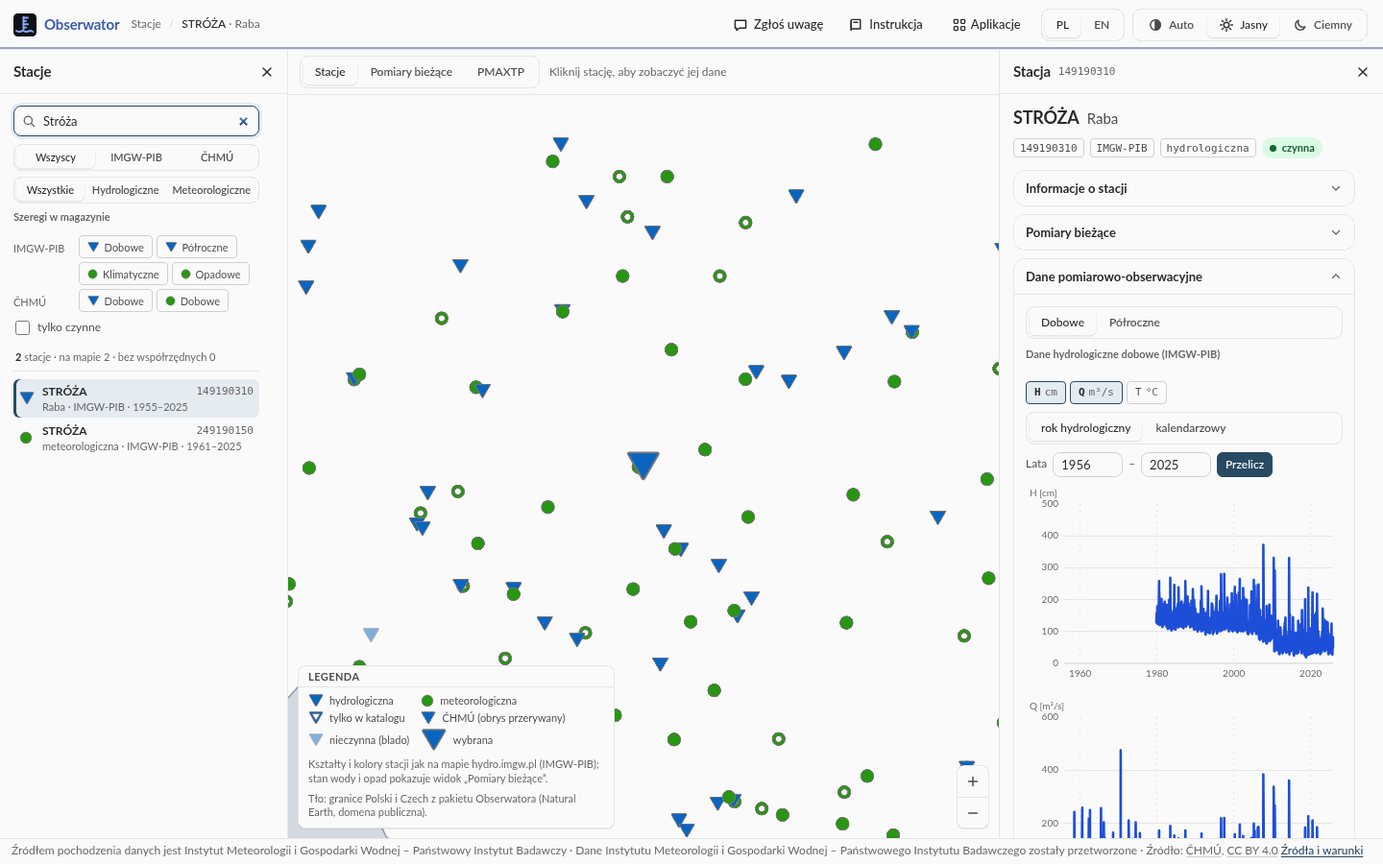
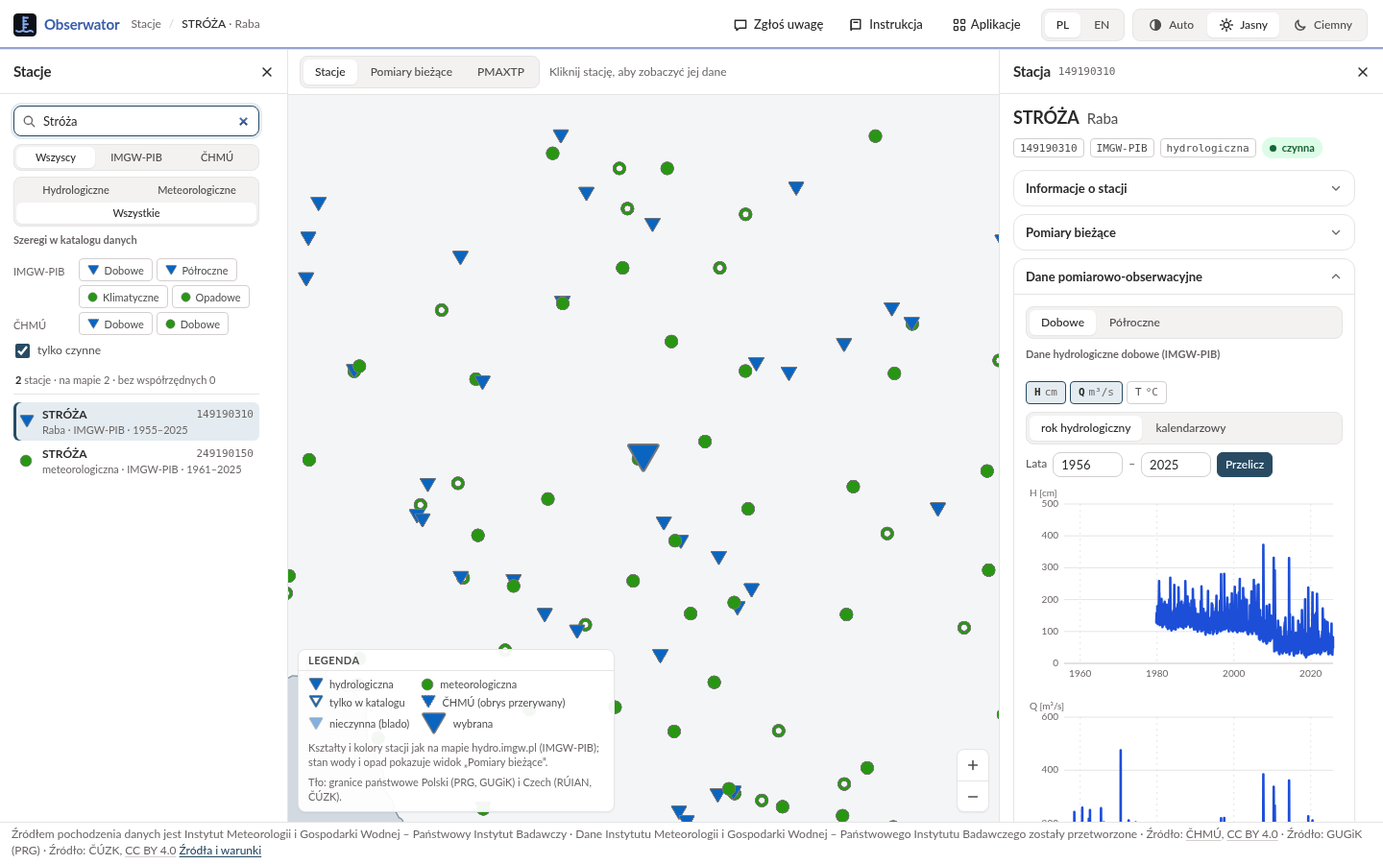
feat(gui): kind filter in two rows, tylko czynne checked on a first visit
The author's request of 2026-11-14 for the left panel of the stations view.

- Rodzaj stacji: Hydrologiczne and Meteorologiczne side by side with a
  full-width Wszystkie under them, at every width; still one radio group
  (arrow keys in the order shown, one tab stop, the same chosen state).
- tylko czynne is checked on a first visit; the person's choice is kept
  in localStorage (obserwator-active-only) and wins on later visits.
  Wyczyść filtry still returns to every station.
- The guide's text and its screenshots ekran.png and pomiary-biezace.png
  retaken; USAGE, CHANGELOG, PROGRESS and TESTING counts.
- e2e: the default and a remembered choice, the kind filter's layout,
  keyboard and aria at 1440 and 390 px; the map tests start from the
  active stations.

diff --git a/src/obserwator/gui/web/src/list.js b/src/obserwator/gui/web/src/list.js
@@ -1,7 +1,8 @@
 // The left panel „Stacje” (plan D10): search by name, river or code ignoring case and
 // diacritics (as `obserwator stations find` does: a fragment of the name or the river, a
 // prefix of the code), filters by provider, kind, the datasets holding the station (chips,
-// any of those chosen) and „tylko czynne”, the counts „na mapie N · bez współrzędnych M”
+// any of those chosen) and „tylko czynne” (checked on a first visit, the person's choice
+// remembered), the counts „na mapie N · bez współrzędnych M”
 // and the list, which keeps the stations without coordinates, marked; a click selects the
 // station and the map flies to it when it has a location. The filters choose the map's
 // stations too (`onMap`); the search is the list's.
@@ -11,8 +12,33 @@ import { StationSymbol } from "./symbols.js";
 import { Seg } from "./ui/seg.js";
 import { DATASET_STEPS, datasetShort, datasetTitle, kindName, providerName } from "./words.js";
 
-/** The filters of a first visit: every station of the catalogs. */
-export const DEFAULT_FILTERS = Object.freeze({ query: "", provider: "all", kind: "all", datasets: Object.freeze([]), active: false });
+/** The filters of „Wyczyść filtry”: every station of the catalogs. */
+export const NO_FILTERS = Object.freeze({ query: "", provider: "all", kind: "all", datasets: Object.freeze([]), active: false });
+
+/** localStorage key of the person's „tylko czynne” choice: "1" checked, "0" not. */
+export const ACTIVE_KEY = "obserwator-active-only";
+
+/**
+ * The filters a visit starts with: every station but „tylko czynne” as the person last
+ * left it, checked on a first visit.
+ *
+ * @returns {object} the filters (NO_FILTERS' fields)
+ */
+export function startFilters() {
+  try {
+    return { ...NO_FILTERS, active: window.localStorage.getItem(ACTIVE_KEY) !== "0" };
+  } catch {
+    return { ...NO_FILTERS, active: true };
+  }
+}
+
+function rememberActive(active) {
+  try {
+    window.localStorage.setItem(ACTIVE_KEY, active ? "1" : "0");
+  } catch {
+    // Storage blocked: the choice lasts until the page closes.
+  }
+}
 
 const PAGE = 150;
 /** The providers in the order of the registry. */
@@ -167,7 +193,7 @@ function StationSub({ station }) {
  *
  * @param {{stations: object[], filters: object, onFilters: (next: object) => void,
  *   selected: string|null, onSelect: (code: string, options: {fly: boolean}) => void}} props
- *   the stations of prepareStations, the filters (DEFAULT_FILTERS' fields), their handler,
+ *   the stations of prepareStations, the filters (NO_FILTERS' fields), their handler,
  *   the selected station and the selection's handler
  * @returns {object}
  */
@@ -180,6 +206,7 @@ export function StationList({ stations, filters, onFilters, selected, onSelect }
   const located = found.filter((station) => station.lon !== null).length;
   const change = (next) => {
     setShown(PAGE);
+    if (next.active !== filters.active) rememberActive(next.active);
     // A dataset chosen under another provider or kind is dropped with its chip
     const chosen = (next.datasets || []).filter((key) => {
       const entry = datasets.find((item) => item.key === key);
@@ -227,13 +254,14 @@ export function StationList({ stations, filters, onFilters, selected, onSelect }
       <${Seg}
         full
         tiny
+        className="kinds"
         label=${t("stations.list.kind")}
         value=${filters.kind}
         onChange=${set("kind")}
         items=${[
-          { value: "all", label: t("stations.list.kind_all") },
           { value: "hydro", label: t("stations.list.kind_hydro") },
           { value: "meteo", label: t("stations.list.kind_meteo") },
+          { value: "all", label: t("stations.list.kind_all") },
         ]}
       />
       <${DatasetChips} entries=${datasets} filters=${filters} onToggle=${toggle} />
@@ -263,7 +291,7 @@ export function StationList({ stations, filters, onFilters, selected, onSelect }
         </ul>`
       : html`<div class="empty-note">
           <p>${t("stations.list.none")}</p>
-          ${filtered ? html`<button type="button" class="btn sm" onClick=${() => change(DEFAULT_FILTERS)}>${t("stations.list.clear")}</button>` : null}
+          ${filtered ? html`<button type="button" class="btn sm" onClick=${() => change(NO_FILTERS)}>${t("stations.list.clear")}</button>` : null}
         </div>`}
     ${found.length > shown
       ? html`<button type="button" class="btn sm more" onClick=${() => setShown(shown + PAGE)}>

diff --git a/src/obserwator/gui/web/instrukcja/index.html b/src/obserwator/gui/web/instrukcja/index.html
@@ -172,7 +172,7 @@
 <section class="part" id="mapa" aria-labelledby="mapa-title">
   <p class="kicker">02 · Widoki „Stacje” i „Pomiary bieżące”</p>
   <h2 id="mapa-title">Mapa i lista stacji</h2>
-  <p>Widok „Stacje” pokazuje wszystkie stacje bieżących katalogów IMGW-PIB i ČHMÚ: hydrologiczne (wodowskazowe) i meteorologiczne. Mapa i lista pokazują te same stacje, wybrane tymi samymi filtrami.</p>
+  <p>Widok „Stacje” pokazuje stacje bieżących katalogów IMGW-PIB i ČHMÚ: hydrologiczne (wodowskazowe) i meteorologiczne, przy pierwszej wizycie tylko czynne. Mapa i lista pokazują te same stacje, wybrane tymi samymi filtrami.</p>
 
   <h3 id="znaki">Znaki stacji</h3>
   <p>Stacje wyglądają jak na mapie hydro.imgw.pl, serwisu hydrologicznego IMGW-PIB, więc kto zna tamtą mapę, odczyta tę od razu:</p>
@@ -189,8 +189,9 @@
   <h3 id="lista">Lista, wyszukiwarka i filtry</h3>
   <ul>
     <li><strong>Wyszukiwarka</strong> („Nazwa, rzeka albo kod”) szuka fragmentu nazwy albo rzeki i początku kodu, bez względu na wielkość liter i znaki diakrytyczne: „lodz” znajdzie Łódź, a „spindleruv” Špindlerův Mlýn. Zawęża tylko listę, nie mapę.</li>
-    <li><strong>Filtry</strong>: „Dostawca” (Wszyscy, IMGW-PIB, ČHMÚ), „Rodzaj stacji” (Wszystkie, Hydrologiczne, Meteorologiczne), „Szeregi w katalogu danych” i „tylko czynne”. Chipy „Szeregi w katalogu danych” to zbiory danych każdego dostawcy, np. „Dobowe” czy „Opadowe”; pełną nazwę zbioru pokazuje podpowiedź. Wybrany chip zostawia stacje, które mają szereg tego zbioru; kilka chipów zostawia stacje z którymkolwiek z nich. Filtry zawężają i listę, i mapę.</li>
-    <li><strong>Liczby nad listą</strong> mówią, ile stacji pasuje, ile z nich jest na mapie, a ile nie ma współrzędnych, np. „6297 stacji · na mapie 4174 · bez współrzędnych 2123”. Gdy nic nie pasuje, „Wyczyść filtry” wraca do wszystkich stacji.</li>
+    <li><strong>Filtry</strong>: „Dostawca” (Wszyscy, IMGW-PIB, ČHMÚ), „Rodzaj stacji” (obok siebie Hydrologiczne i Meteorologiczne, pod nimi Wszystkie), „Szeregi w katalogu danych” i „tylko czynne”. Chipy „Szeregi w katalogu danych” to zbiory danych każdego dostawcy, np. „Dobowe” czy „Opadowe”; pełną nazwę zbioru pokazuje podpowiedź. Wybrany chip zostawia stacje, które mają szereg tego zbioru; kilka chipów zostawia stacje z którymkolwiek z nich. Filtry zawężają i listę, i mapę.</li>
+    <li><strong>„tylko czynne”</strong> jest zaznaczone przy pierwszej wizycie, więc lista i mapa zaczynają od stacji czynnych; odznacz je, aby zobaczyć też nieczynne. Przeglądarka zapamiętuje ten wybór na kolejne wizyty.</li>
+    <li><strong>Liczby nad listą</strong> mówią, ile stacji pasuje, ile z nich jest na mapie, a ile nie ma współrzędnych, np. „6297 stacji · na mapie 4174 · bez współrzędnych 2123”. Gdy nic nie pasuje, „Wyczyść filtry” wraca do wszystkich stacji, także nieczynnych.</li>
     <li><strong>Stacje bez współrzędnych</strong> są tylko na liście, z dopiskiem „bez współrzędnych”. Ich dane i analizy otwierają się tak samo, tylko mapa nie ma ich gdzie pokazać; przyczynę braku położenia podaje karta „Informacje o stacji”.</li>
     <li><strong>Kolejność</strong>: najpierw stacje z szeregami, potem pozostałe. Lista pokazuje po 150 stacji, a „Pokaż kolejne” dokłada następne. Kliknięcie stacji wybiera ją, a mapa przesuwa się do niej, jeśli stacja ma współrzędne.</li>
   </ul>

diff --git a/src/obserwator/gui/web/src/main.js b/src/obserwator/gui/web/src/main.js
@@ -23,7 +23,7 @@ import { BORDER_SOURCES, Sources, TermsLink, catalogSources, compose, merge, set
 import { clock, useCurrent } from "./current.js";
 import { lang, loadTexts, onLangChange, storedLang } from "./i18n.js";
 import { html, render, t, useEffect, useMemo, useState } from "./lib.js";
-import { DEFAULT_FILTERS, StationList, onMap, prepareStations } from "./list.js";
+import { StationList, onMap, prepareStations, startFilters } from "./list.js";
 import { StationMap } from "./map.js";
 import { NoStation, StationPanel, sectionTitle } from "./panel.js";
 import { PmaxtpForm } from "./pmaxtp/form.js";
@@ -71,7 +71,7 @@ function App({ lang: language }) {
   const [selected, setSelected] = useState(start.station);
   const [open, setOpen] = useState(start.section ? [start.section] : FIRST_OPEN);
   const [section, setSection] = useState(start.section);
-  const [filters, setFilters] = useState(DEFAULT_FILTERS);
+  const [filters, setFilters] = useState(startFilters);
   const [view, setView] = useState(start.view);
   const [fly, setFly] = useState(start.station ? { code: start.station, n: 0 } : null);
   const [pick, setPick] = useState(start.point ? { lat: round4(start.point.lat), lon: round4(start.point.lon) } : null);

diff --git a/src/obserwator/gui/web/css/app.css b/src/obserwator/gui/web/css/app.css
@@ -267,6 +267,9 @@ body.resizing .view-center, body.resizing .view-panel { pointer-events: none; }
 .search svg { position: absolute; left: 9px; top: 50%; width: 15px; height: 15px; margin-top: -7.5px; fill: none; stroke: var(--text-3); stroke-width: 1.8; stroke-linecap: round; pointer-events: none; }
 .search input { width: 100%; padding-left: 30px; }
 .filters { display: grid; gap: 6px; flex: none; }
+/* „Rodzaj stacji”: Hydrologiczne and Meteorologiczne side by side, Wszystkie under them */
+.seg.kinds { display: grid; grid-template-columns: 1fr 1fr; }
+.seg.kinds button:last-child { grid-column: 1 / -1; }
 .check-row { display: flex; flex-wrap: wrap; gap: var(--space-1) var(--space-4); padding: 2px 2px 0; }
 .counts { margin: 0; padding: 6px 2px; border-bottom: 1px solid var(--line); font-size: var(--text-xs); color: var(--text-3); font-variant-numeric: tabular-nums; flex: none; }
 .counts strong { color: var(--text); }

diff --git a/tests/e2e/test_map.py b/tests/e2e/test_map.py
@@ -100,6 +100,15 @@ def codes(stations: list[dict[str, Any]], *, located: bool | None = None) -> set
     }
 
 
+def active(stations: list[dict[str, Any]]) -> list[dict[str, Any]]:
+    """The stations of a first visit: „tylko czynne” starts checked."""
+    return [station for station in stations if station["active"]]
+
+
+def show_inactive(page: Any) -> None:
+    page.get_by_role("checkbox", name="tylko czynne").uncheck()
+
+
 def test_the_map_draws_the_located_stations_of_both_providers_and_the_list_all(
     open_page, catalog
 ):
@@ -109,6 +118,7 @@ def test_the_map_draws_the_located_stations_of_both_providers_and_the_list_all(
     assert {by_code[code]["provider"] for code in located} == {"IMGW-PIB", "CHMI"}
     assert unlocated
     page = open_page()
+    show_inactive(page)
     wait_drawn(page, ["stations"], located)
     wait_listed(page, located | unlocated)
     for code in unlocated:
@@ -139,22 +149,99 @@ def test_the_map_draws_the_located_stations_of_both_providers_and_the_list_all(
         ("90001", set()),
     ],
 )
-def test_the_search_ignores_case_and_diacritics(open_page, query, found):
+def test_the_search_ignores_case_and_diacritics(open_page, catalog, query, found):
     page = open_page()
     expect(page.locator(".stations .st-item").first).to_be_visible()
+    only = page.get_by_role("checkbox", name="tylko czynne")
+    only.uncheck()
     page.get_by_role(
         "searchbox", name="Szukaj stacji po nazwie, rzece albo kodzie"
     ).fill(query)
     wait_listed(page, found)
     if not found:
         expect(page.get_by_text("Żadna stacja nie pasuje.")).to_be_visible()
+        only.check()
         page.get_by_role("button", name="Wyczyść filtry").click()
         expect(page.get_by_role("searchbox")).to_have_value("")
-        assert len(listed(page)) > 0
+        # every station again, the inactive ones too
+        expect(only).not_to_be_checked()
+        wait_listed(page, codes(catalog))
+
+
+def test_tylko_czynne_starts_checked_and_a_remembered_choice_wins(open_page, catalog):
+    first = active(catalog)
+    assert codes(first) != codes(catalog)
+    page = open_page()
+    only = page.get_by_role("checkbox", name="tylko czynne")
+    expect(only).to_be_checked()
+    wait_listed(page, codes(first))
+    wait_drawn(page, ["stations"], codes(first, located=True))
+    only.uncheck()
+    wait_listed(page, codes(catalog))
+    # the next visit keeps the person's choice
+    page.reload()
+    expect(only).not_to_be_checked()
+    wait_listed(page, codes(catalog))
+    wait_drawn(page, ["stations"], codes(catalog, located=True))
+    only.check()
+    page.reload()
+    expect(only).to_be_checked()
+    wait_listed(page, codes(first))
+
+
+@pytest.mark.parametrize("width", WIDTHS)
+def test_the_kind_filter_has_two_kinds_side_by_side_and_all_under_them(
+    open_page, catalog, width
+):
+    page = open_page(width=width, height=844)
+    if width < 860:
+        page.locator(".map-bar .panel-toggle.left").click()
+    group = page.get_by_role("radiogroup", name="Rodzaj stacji")
+    radios = group.get_by_role("radio")
+    expect(radios).to_have_text(["Hydrologiczne", "Meteorologiczne", "Wszystkie"])
+    # measured in one frame: on a phone the sheet may still be sliding up
+    hydro, meteo, every = radios.evaluate_all(
+        "(items) => items.map((item) => { const box = item.getBoundingClientRect();"
+        " return { x: box.x, y: box.y, width: box.width, height: box.height }; })"
+    )
+    # one row of two equal halves, then „Wszystkie” across both
+    assert abs(hydro["y"] - meteo["y"]) < 1
+    assert abs(hydro["width"] - meteo["width"]) < 1
+    assert hydro["x"] + hydro["width"] <= meteo["x"]
+    assert every["y"] >= hydro["y"] + hydro["height"]
+    assert abs(every["x"] - hydro["x"]) < 1
+    assert abs(every["x"] + every["width"] - meteo["x"] - meteo["width"]) < 1
+    # no label is cut
+    assert radios.evaluate_all(
+        "(items) => items.every((item) => item.scrollWidth <= item.clientWidth)"
+    )
+    # one radio group: „Wszystkie” chosen and the one tab stop; the arrows go round in
+    # the order shown and choose
+    expect(radios.nth(2)).to_have_attribute("aria-checked", "true")
+    assert radios.evaluate_all("(items) => items.map((item) => item.tabIndex)") == [
+        -1,
+        -1,
+        0,
+    ]
+    radios.nth(2).focus()
+    page.keyboard.press("ArrowRight")
+    expect(radios.nth(0)).to_be_focused()
+    expect(radios.nth(0)).to_have_attribute("aria-checked", "true")
+    wait_listed(page, codes([s for s in active(catalog) if s["kind"] == "hydro"]))
+    page.keyboard.press("ArrowRight")
+    expect(radios.nth(1)).to_have_attribute("aria-checked", "true")
+    wait_listed(page, codes([s for s in active(catalog) if s["kind"] == "meteo"]))
+    page.keyboard.press("ArrowRight")
+    expect(radios.nth(2)).to_be_focused()
+    expect(radios.nth(2)).to_have_attribute("aria-checked", "true")
+    wait_listed(page, codes(active(catalog)))
+    # nothing of the panel sticks out sideways
+    assert page.evaluate("() => document.documentElement.scrollWidth") <= width
 
 
 def test_the_filters_choose_the_stations_of_the_list_and_of_the_map(open_page, catalog):
     page = open_page()
+    show_inactive(page)
     located = codes(catalog, located=True)
     wait_drawn(page, ["stations"], located)
 
@@ -196,7 +283,7 @@ def test_current_measurements_replace_the_station_layer_and_stations_bring_it_ba
     open_page, catalog, gui_url
 ):
     page = open_page()
-    located = codes(catalog, located=True)
+    located = codes(active(catalog), located=True)
     wait_drawn(page, ["stations"], located)
     current = api(gui_url, "api/current")
     (west, south), (east, north) = page.evaluate(
@@ -229,7 +316,7 @@ def test_current_measurements_replace_the_station_layer_and_stations_bring_it_ba
 
 def test_a_point_names_its_station_and_a_click_selects_it(open_page, catalog):
     page = open_page()
-    wait_drawn(page, ["stations"], codes(catalog, located=True))
+    wait_drawn(page, ["stations"], codes(active(catalog), located=True))
     # Warszawa: in the middle of the map, clear of the legend (bottom left)
     station = next(s for s in catalog if s["code"] == FIXTURE_STATIONS["meteo"])
     x, y = page.evaluate(_PIXEL, [station["lon"], station["lat"]])
@@ -298,7 +385,7 @@ def test_without_a_basemap_the_packaged_borders_are_the_background(open_page):
 
 def test_the_pmaxtp_view_draws_only_the_point_picked(open_page, catalog):
     page = open_page()
-    wait_drawn(page, ["stations"], codes(catalog, located=True))
+    wait_drawn(page, ["stations"], codes(active(catalog), located=True))
     page.get_by_role("radio", name="PMAXTP").click()
     # at once, on the place of a station drawn a moment ago: Warszawa
     warszawa = next(s for s in catalog if s["code"] == FIXTURE_STATIONS["meteo"])
@@ -334,7 +421,7 @@ def test_both_views_draw_in_each_theme_language_and_width(
     open_page, catalog, theme, width, lang
 ):
     page = open_page(theme=theme, width=width, lang=lang)
-    wait_drawn(page, ["stations"], codes(catalog, located=True))
+    wait_drawn(page, ["stations"], codes(active(catalog), located=True))
     toggle = page.locator(".legend-toggle")
     # on a phone the legend starts folded and opens on demand
     expect(toggle).to_have_attribute(
@@ -351,6 +438,6 @@ def test_both_views_draw_in_each_theme_language_and_width(
     )
     wait_drawn(page, ["stations"], set())
     page.get_by_role("radio", name=stations).click()
-    wait_drawn(page, ["stations"], codes(catalog, located=True))
+    wait_drawn(page, ["stations"], codes(active(catalog), located=True))
     # nothing of the map sticks out sideways
     assert page.evaluate("() => document.documentElement.scrollWidth") <= width

diff --git a/docs/TESTING.md b/docs/TESTING.md
@@ -71,7 +71,7 @@ The fixtures of `tests/e2e/conftest.py`: `gui_url` (the fixture root of both pro
 |`tests/unit/test_catalog_effects.py`, `test_catalog_i18n.py`, `test_agent_guide.py`, `test_mcp_*.py`|212|Agents: effects = behavior, English texts, guide drift test, MCP tools/calls/stdio/HTTP|
 |`tests/unit/gui/`|295|The GUI's server through Starlette's `TestClient` on the fixture root and its read-only copy: routes, headers, refused methods and parameters, error statuses and cache rules, the app under a prefix, `gui serve` until `SIGTERM` (Ctrl+Break on Windows) and the `nogat.gui` entry point; the rate limit, daily totals, access log (`nogat_logging`, no client addresses, no admin key), „Zgłoś uwagę” and regulamin; the admin panel (`test_admin.py`: the key and its file read on every request, reports, stats, status; ADR-020); IMGW-PIB snapshots and PMAXTP from recorded answers; the climate stripes' colour scale on Hydrolog's annual means (`test_stripes.py`); the analyses that the recorded Hydrolog of `tests/fixtures/hydrolog` stored (listed with the options a person may change, read without running a program, named by the session, shown by `DataRoot` a minute after a build, exported as JSON and CSV) and a person's choices computed by recorded programs (refused options, the memory of results, two computations at a time, timeout and failure, no program found at the start)|
 |`tests/contract/test_gui_web.py`|9|The page's files: the SHA-256 of the copied Nogat files and the vendored libraries, no remote URL, no inline script or style in `index.html`, `admin/index.html` and the guide `instrukcja/index.html`, every text the scripts name a key of the area `gui`, no Polish literal in the scripts, every link of a section's explanation into the guide an id of the guide (Nogat DEV-15.14)|
-|`tests/e2e/` (Playwright, Chromium)|149|The GUI in Chromium on a live server (marker `e2e`): `test_shell.py`, `test_map.py`, `test_station.py`, `test_charts.py`, `test_files.py`, `test_pmaxtp.py`, `test_sections.py` (92 tests on the fixture root; `test_shell.py`: „Regulamin” of a public deployment at the bottom of the left panel; `test_sections.py`: a part names the failure of one of its results and the series version by its label); `test_sources.py` (6 tests: the providers' lines once per view and in the welcome window of a first visit, the welcome's one link to the terms); `test_admin.py` (1 test: the admin panel's sign-in, reports, stats and status on `admin_site`); `test_smoke.py` (6 tests) opens every view in both themes and on a phone's width, every card of the fixture stations on their stored analyses without Hydrolog's program (no request of an analysis names an option, no error but those Hydrolog stored), and runs the guide's command lines; the analysis sections `test_hydro_levels.py`, `test_hydro_regime.py`, `test_meteo_precipitation.py`, `test_meteo_temperature.py` (44 tests, marker `hydrolog`, on `OBSERWATOR_GUI_E2E_ROOT` with Hydrolog's program): the default view against the stored result, a person's change against the result computed on request|
+|`tests/e2e/` (Playwright, Chromium)|152|The GUI in Chromium on a live server (marker `e2e`): `test_shell.py`, `test_map.py`, `test_station.py`, `test_charts.py`, `test_files.py`, `test_pmaxtp.py`, `test_sections.py` (95 tests on the fixture root; `test_shell.py`: „Regulamin” of a public deployment at the bottom of the left panel; `test_sections.py`: a part names the failure of one of its results and the series version by its label); `test_sources.py` (6 tests: the providers' lines once per view and in the welcome window of a first visit, the welcome's one link to the terms); `test_admin.py` (1 test: the admin panel's sign-in, reports, stats and status on `admin_site`); `test_smoke.py` (6 tests) opens every view in both themes and on a phone's width, every card of the fixture stations on their stored analyses without Hydrolog's program (no request of an analysis names an option, no error but those Hydrolog stored), and runs the guide's command lines; the analysis sections `test_hydro_levels.py`, `test_hydro_regime.py`, `test_meteo_precipitation.py`, `test_meteo_temperature.py` (44 tests, marker `hydrolog`, on `OBSERWATOR_GUI_E2E_ROOT` with Hydrolog's program): the default view against the stored result, a person's change against the result computed on request|
 |`tests/unit/test_cli_interrupt.py` (with `interrupt_driver.py`)|6|SIGINT and SIGTERM of real plain writes (`datasets download -o`, `store export --output`): exit codes, no staging directory, old target whole|
 |`tests/unit/test_output.py`, `test_plain_output.py`|37|Plain output (ADR-007): target list, conflicts, staging and its cleanup, `files[]`, `--check` plan|
 |`tests/unit/test_default_root.py`, `test_environment.py`|53|Default roots and their sources (`OBSERWATOR_ROOT`, `OBSERWATOR_RAW_ROOT`, `nogat.toml`, `<data_dir>/obserwator`, `<data_dir>/obserwator-raw`), REST and MCP write refusals, `nogat.toml` settings|
@@ -85,7 +85,7 @@ The fixtures of `tests/e2e/conftest.py`: `gui_url` (the fixture root of both pro
 |`tests/live/test_interfaces_live.py`|50|Live IMGW-PIB: 35 commands × Python/`obserwator`/REST (the analyses with the recorded Hydrolog), 6 live errors, MCP leg (`-k obserwator_mcp`, 8 commands); marker `live`|
 |`tests/live/test_chmi_live.py`|22|Live ČHMÚ (opendata.chmi.cz) through Python/CLI/REST/MCP with a request log; marker `live`|
 
-**Total: 3502 tests** (`pytest --collect-only -q -m ''`, 2026-11-14): 3430 offline (149 of them in `tests/e2e`, skipped without Chromium), 72 live (`uv run pytest tests/live -m live`; JSON report via `OBSERWATOR_LIVE_REPORT=<file>`). The counts of the rows above were recounted the same day with `pytest --collect-only -q` and add up to that total, the GUI's rows included. The contract suite and the analyses tests run the recorded Hydrolog (`OBSERWATOR_HYDROLOG_COMMAND` set by their fixtures); no offline test needs the real program. Fixtures: `fixture_roots` (`FixtureRoots`), `fixture_root` (the data root) and `fixture_raw_root` (the raw root) in `tests/conftest.py`; `served_root`, `served_raw_root` and `served` (both server settings) in `tests/contract/conftest.py`.
+**Total: 3505 tests** (`pytest --collect-only -q -m ''`, 2026-11-14): 3433 offline (152 of them in `tests/e2e`, skipped without Chromium), 72 live (`uv run pytest tests/live -m live`; JSON report via `OBSERWATOR_LIVE_REPORT=<file>`). The counts of the rows above were recounted the same day with `pytest --collect-only -q` and add up to that total, the GUI's rows included. The contract suite and the analyses tests run the recorded Hydrolog (`OBSERWATOR_HYDROLOG_COMMAND` set by their fixtures); no offline test needs the real program. Fixtures: `fixture_roots` (`FixtureRoots`), `fixture_root` (the data root) and `fixture_raw_root` (the raw root) in `tests/conftest.py`; `served_root`, `served_raw_root` and `served` (both server settings) in `tests/contract/conftest.py`.
 
 ## Tests (from README)
 

diff --git a/docs/USAGE.md b/docs/USAGE.md
@@ -619,7 +619,7 @@ obserwator gui serve [--host 127.0.0.1] [--port 8060] [--root PATH] [--no-browse
 
 **The page.** The top bar holds Obserwator's mark, the view with its station or point, „Zgłoś uwagę”, „Instrukcja”, Nogat's app menu „Aplikacje” (the GUIs of `[nogat.gui]`), „PL | EN” and the theme („Auto”, „Jasny”, „Ciemny”). The map's bar switches the views „Stacje | Pomiary bieżące | PMAXTP”:
 
-- „Stacje” draws the stations of the current catalogs in hydro.imgw.pl's symbols: a triangle for a hydrological station, a circle for a meteorological one, a hollow centre when the root holds no series of the station, a dashed outline for ČHMÚ, inactive ones faded. The left panel searches by name, river or code ignoring case and diacritics, filters by provider, kind, dataset and „tylko czynne”, and lists the stations without coordinates too, marked and counted. With no station chosen, the right panel offers „Pobierz listę stacji” (GeoJSON or CSV of the list's provider and kind). A chosen station opens there with „Informacje o stacji” („Dane katalogowe”; for an IMGW-PIB hydrological station with hydro.imgw.pl's details also the gauge zero with its datum, e.g. „281,617 m n.p.m. (EVRF2007)”, the catchment area, „Województwo”, „Powiat” and the section „Progi i stany ekstremalne IMGW-PIB”: „Stan ostrzegawczy”, „Stan alarmowy”, „Absolutne minimum”, „Absolutne maksimum” with „H [cm]” and „Data”, the dates as published; its lines then add RH), „Pomiary bieżące” (IMGW-PIB's latest values with their times; for ČHMÚ „Dane bieżące ČHMÚ nie są udostępniane”), „Dane pomiarowo-obserwacyjne” (dataset, variables, hydrological or calendar year, chart and table, flags), the analyses that apply to it and „Pobierz”. Hydrological analyses: „Stany charakterystyczne”, „Krzywa natężenia przepływu”, „Przepływy maksymalne i minimalne”, „Niżówki”, „Czas trwania i strefy”, „Reżim i sezonowość”, „Temperatura wody”, „Trendy i bilans”; meteorological: „Opady”, „Susze i okresy bezopadowe”, „Temperatura”, „Śnieg”, „Trendy”.
+- „Stacje” draws the stations of the current catalogs in hydro.imgw.pl's symbols: a triangle for a hydrological station, a circle for a meteorological one, a hollow centre when the root holds no series of the station, a dashed outline for ČHMÚ, inactive ones faded. The left panel searches by name, river or code ignoring case and diacritics, filters by provider, kind („Hydrologiczne” and „Meteorologiczne” side by side, „Wszystkie” under them), dataset and „tylko czynne” (checked on a first visit; the browser remembers the person's choice), and lists the stations without coordinates too, marked and counted. With no station chosen, the right panel offers „Pobierz listę stacji” (GeoJSON or CSV of the list's provider and kind). A chosen station opens there with „Informacje o stacji” („Dane katalogowe”; for an IMGW-PIB hydrological station with hydro.imgw.pl's details also the gauge zero with its datum, e.g. „281,617 m n.p.m. (EVRF2007)”, the catchment area, „Województwo”, „Powiat” and the section „Progi i stany ekstremalne IMGW-PIB”: „Stan ostrzegawczy”, „Stan alarmowy”, „Absolutne minimum”, „Absolutne maksimum” with „H [cm]” and „Data”, the dates as published; its lines then add RH), „Pomiary bieżące” (IMGW-PIB's latest values with their times; for ČHMÚ „Dane bieżące ČHMÚ nie są udostępniane”), „Dane pomiarowo-obserwacyjne” (dataset, variables, hydrological or calendar year, chart and table, flags), the analyses that apply to it and „Pobierz”. Hydrological analyses: „Stany charakterystyczne”, „Krzywa natężenia przepływu”, „Przepływy maksymalne i minimalne”, „Niżówki”, „Czas trwania i strefy”, „Reżim i sezonowość”, „Temperatura wody”, „Trendy i bilans”; meteorological: „Opady”, „Susze i okresy bezopadowe”, „Temperatura”, „Śnieg”, „Trendy”.
 - „Pomiary bieżące” hides the station layer and draws IMGW-PIB's current measurements: hydrological stations filled by their water state, meteorological ones by their latest 10-minute precipitation, each value with its time.
 - „PMAXTP” takes a point clicked on the map or typed as coordinates, POT or AMP, and shows the quantiles (KS), the upper confidence bounds (SG) and the estimation errors (RB), their CSV and JSON and a link to IMGW-PIB's own answer for the point; the map draws no layer of the PMAXTP grid.
 

diff --git a/docs/PROGRESS.md b/docs/PROGRESS.md
@@ -28,6 +28,7 @@ Current state of the project (Nogat standard 1.0, DOC-6.1). Release history, cro
 | Documentation audit and info texts by Nogat DEV-15.14 (ECO-069, 2026-11-14) | done (`docs/audit-2026-11-14`), not merged | the docs checked against `bee65bb`; every explanation of the GUI (analysis parts, station cards, „Pobierz”, PMAXTP methods) as definition, formula, reading and sources within about 400 characters, without programs, commands, plan steps or development status; the method detail in the guide's chapter „04 Metody analiz”, linked by „Więcej w instrukcji”; the stripes' prototype chip removed. Details in [CHANGELOG "Unreleased"](CHANGELOG.md) |
 | CI of `develop` on Windows on 2026-11-14 (six tests since the GUI and data-root merges) | done (`fix/ci-windows`), not merged | the GUI's scripts are `text/javascript` whatever types the Windows registry gives `mimetypes`; `gui serve` stops gracefully on Ctrl+Break (`SIGBREAK`); the server tests stop the server with Ctrl+Break on Windows, the file modes are checked where permission bits exist, the `store catalog` plan is compared by POSIX path. Details in [CHANGELOG "Unreleased"](CHANGELOG.md) |
 | No footer statement in the GUI, „Regulamin” at the bottom of the left panel (Nogat DEV-15.7, DEV-15.8; the author's decision of 2026-11-14) | done (`feat/no-footer`), not merged | the statement only opens § 3 of the regulamin; `regulamin.html` linked in a new tab from the left panel, the app menu and the welcome window's „Regulamin serwisu”; ADR-013 erratum. Details in [CHANGELOG "Unreleased"](CHANGELOG.md) |
+| Kind filter in two rows and „tylko czynne” checked on a first visit (the author's request of 2026-11-14) | done (`feat/kind-filter-layout`), not merged | „Hydrologiczne” and „Meteorologiczne” side by side, „Wszystkie” under them (one radio group as before); the person's „tylko czynne” choice kept in `localStorage`; guide text and its screenshots `ekran.png`, `pomiary-biezace.png` retaken. Details in [CHANGELOG "Unreleased"](CHANGELOG.md) |
 | API key enforcement, per-key limits | planned | backlog in "Next" |
 | Compliance with Nogat standard 1.0 (`chore/nogat-2.1`, merged into `develop`) | in progress | done and to do: below and in "Next" |
 | Data output: plain mode, store, default root (ADR-007, DEV §19) | done (`develop`) | code, tests and documents finished; for consumers: [CHANGELOG "Migration guide: data output"](CHANGELOG.md) |

diff --git a/docs/CHANGELOG.md b/docs/CHANGELOG.md
@@ -6,6 +6,17 @@ follow [SemVer](https://semver.org/). Every change of the public API and of the 
 
 ## [Unreleased]
 
+- **GUI: the kind filter in two rows; „tylko czynne” checked on a first visit (the author's
+  request of 2026-11-14).** „Rodzaj stacji” in the left panel shows „Hydrologiczne” and
+  „Meteorologiczne” side by side with a full-width „Wszystkie” under them, at every width;
+  it stays one radio group (arrow keys in that order, one tab stop, the same chosen state).
+  „tylko czynne” is checked on a first visit, so the list and the map start with the active
+  stations; the browser remembers the person's choice (`localStorage`
+  `obserwator-active-only`), which wins on later visits. „Wyczyść filtry” still returns to
+  every station, inactive ones included. The guide's text and its screenshots of the panel
+  follow. Tests: e2e of the default, of a remembered choice and of the kind filter's layout
+  on a desktop and a phone.
+
 - **GUI: no footer statement; „Regulamin” at the bottom of the left panel (Nogat DEV-15.7,
   DEV-15.8, the author's decision of 2026-11-14).** A public deployment no longer shows
   „Regulamin” and the service's statement under the strip of provider lines: the statement
